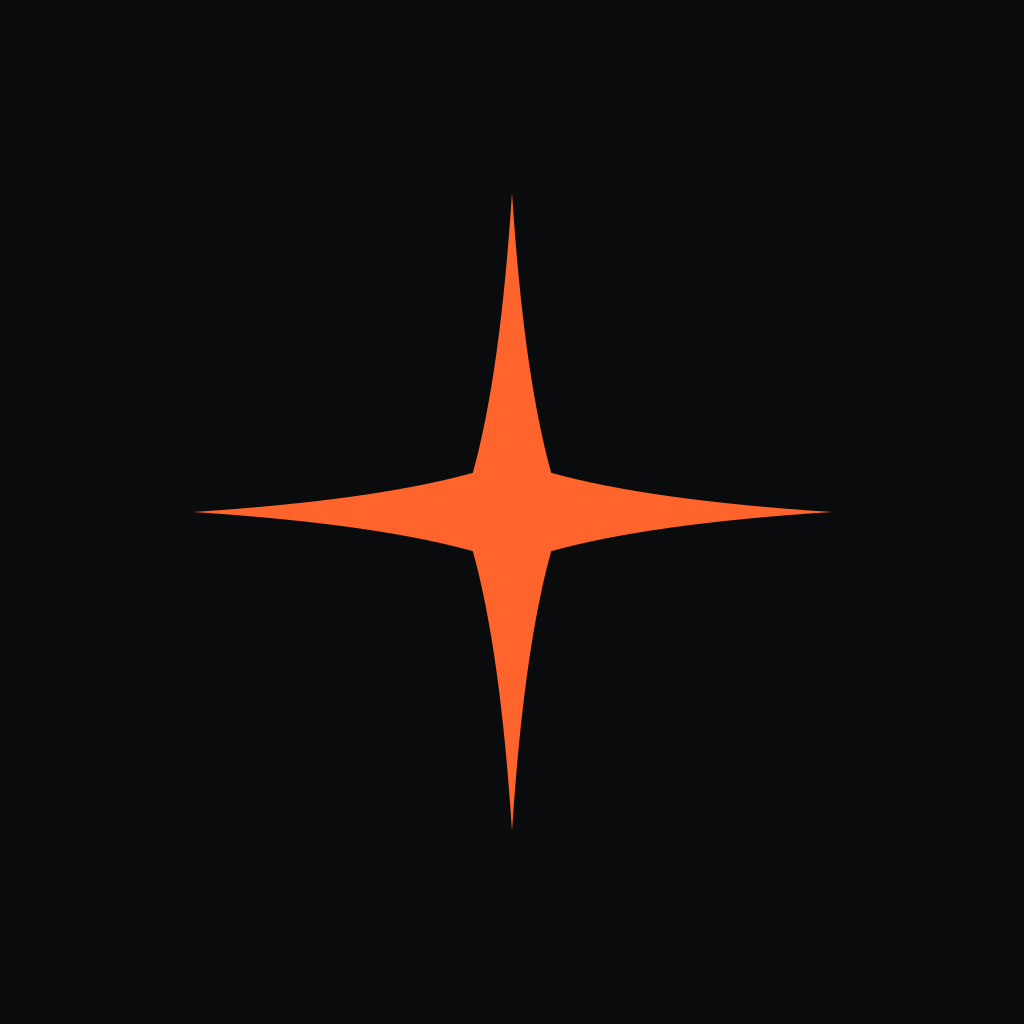
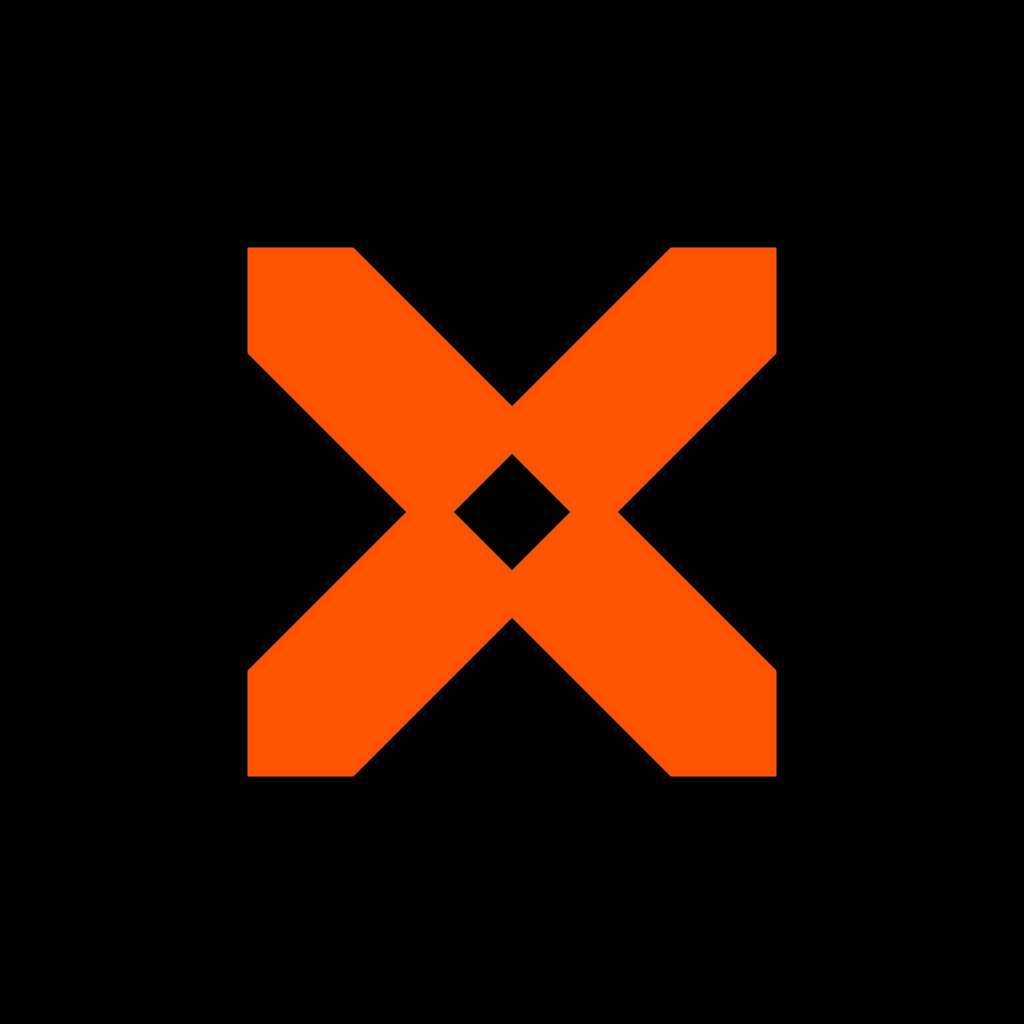
New Crux mark: a bold X with a diamond cut from its centre, also the X of the wordmark
The four-point star read as an AI sparkle (Gemini). The new mark is a solid X with square-cut ends and a diamond cut
out of the centre, the point where every chain's route meets one pool; it holds at 16px. It is the X of the wordmark
("CRU" + mark) in the header, footer and share image, the favicon and public icon, the app icon and splash (regenerated
by scripts/generate-icons.mjs, which still drew an old star), and the hero, now the mark drawn in SVG and lit orange in
its lens (the glass-and-chrome star image is removed). DESIGN.md describes it.

Changed region(s): [[0.2188, 0.2188, 0.7812, 0.7812]]

diff --git a/components/site/CruxEmblem.tsx b/components/site/CruxEmblem.tsx
@@ -1,12 +1,13 @@
 "use client";
 
-import Image from "next/image";
 import { useEffect, useRef } from "react";
+import { CRUX_MARK_PATH } from "./Logo";
 
 /**
- * The hero's CRUX emblem: the glass and liquid-chrome star (public/crux-emblem.webp) in a black lens. It follows the
- * pointer anywhere on the page: the star tilts towards it, a reflection slides across the chrome, and the orange core
- * brightens as the pointer nears it; a tap sends one pulse out from the core. With no pointer it drifts slowly.
+ * The hero's CRUX emblem: the mark (components/site/Logo.tsx), lit Electric Orange, in a black glass lens. It follows
+ * the pointer anywhere on the page: the mark tilts towards it, a reflection slides across it, and the core glows through
+ * the diamond at its centre as the pointer nears it; a tap sends one pulse out from the core. With no pointer it drifts
+ * slowly.
  * prefers-reduced-motion keeps it still. On black the lens is invisible; on the light theme it reads as a glass disc.
  */
 
@@ -82,8 +83,22 @@ export function CruxEmblem({ className = "" }: { className?: string }) {
       <div data-stage className="absolute inset-0 [transform-style:preserve-3d] [transform:rotateX(var(--rx))_rotateY(var(--ry))] will-change-transform">
         {/* The lens: black glass, so the image's black ground disappears on the dark theme */}
         <div className="absolute inset-0 isolate overflow-hidden rounded-full bg-black ring-1 ring-tint/10">
-          <Image src="/crux-emblem.webp" alt="" fill priority sizes="(min-width: 768px) 480px, 300px" className="pointer-events-none object-cover" draggable={false} />
-          {/* A reflection that follows the pointer; overlay leaves the black untouched and lifts only the chrome */}
+          {/* The mark, lit from the upper left, with a soft orange bloom behind it */}
+          <svg viewBox="0 0 24 24" className="pointer-events-none absolute inset-[22%] h-[56%] w-[56%]">
+            <defs>
+              <linearGradient id="crux-emblem-fill" x1="0" y1="0" x2="1" y2="1">
+                <stop offset="0" stopColor="#ff8a4c" />
+                <stop offset="0.55" stopColor="#ff5500" />
+                <stop offset="1" stopColor="#c23d00" />
+              </linearGradient>
+              <filter id="crux-emblem-bloom" x="-30%" y="-30%" width="160%" height="160%">
+                <feGaussianBlur stdDeviation="1.1" />
+              </filter>
+            </defs>
+            <path d={CRUX_MARK_PATH} fillRule="evenodd" fill="#ff5500" opacity="0.45" filter="url(#crux-emblem-bloom)" />
+            <path d={CRUX_MARK_PATH} fillRule="evenodd" fill="url(#crux-emblem-fill)" />
+          </svg>
+          {/* A reflection that follows the pointer; overlay leaves the black untouched and lifts only the mark */}
           <div
             className="absolute inset-0 mix-blend-overlay"
             style={{ background: "radial-gradient(circle at var(--gx) var(--gy), rgb(255 255 255 / 0.85), rgb(255 190 150 / 0.25) 22%, transparent 48%)" }}
@@ -91,7 +106,7 @@ export function CruxEmblem({ className = "" }: { className?: string }) {
         </div>
         {/* The core flare, floating in front of the glass; brighter as the pointer nears it */}
         <div
-          className="pointer-events-none absolute left-1/2 top-[45.7%] aspect-square w-[30%] rounded-full mix-blend-screen"
+          className="pointer-events-none absolute left-1/2 top-1/2 aspect-square w-[22%] rounded-full mix-blend-screen"
           style={{
             background: "radial-gradient(circle, rgb(255 214 186 / 0.9), rgb(255 85 0 / 0.55) 28%, rgb(255 85 0 / 0.12) 55%, transparent 70%)",
             opacity: "calc(0.15 + var(--glow) * 0.85)",

diff --git a/components/site/Logo.tsx b/components/site/Logo.tsx
@@ -1,27 +1,29 @@
 /**
- * The CRUX mark: four equal, tapered arms converging on one point. Equal arms and concave
- * sides keep it a convergence mark (a compass point, a clearing price), never a cross.
- * Drawn as one closed path so the same geometry serves every version: flat Electric Orange
- * for the favicon and app icon, and a single colour (currentColor) at tiny sizes and in the
- * header logo. The hero emblem (components/site/CruxEmblem.tsx) is a rendered glass and chrome image of it.
+ * The CRUX mark: a bold X whose four arms meet around a diamond cut out of its centre, the crux where every chain's
+ * route converges on one pool. Square-cut ends and straight edges keep it a letter and a mark at once: it stands alone
+ * as the icon, and it is the X of the wordmark ("CRU" + mark). One path with the diamond as a second subpath (fill-rule
+ * evenodd), so the same geometry serves every version: flat Electric Orange for the favicon, app icon and OG image, and
+ * a single colour (currentColor) at tiny sizes and in the header. The hero (components/site/CruxEmblem.tsx) sets it in
+ * a glass lens.
  */
-export const CRUX_MARK_PATH =
-  "M12 0.6 Q12.42 7.1 13.4 10.6 Q16.9 11.58 23.4 12 Q16.9 12.42 13.4 13.4 Q12.42 16.9 12 23.4 Q11.58 16.9 10.6 13.4 Q7.1 12.42 0.6 12 Q7.1 11.58 10.6 10.6 Q11.58 7.1 12 0.6 Z";
+export const CRUX_MARK_PATH = "M2 2 H6 L12 8 L18 2 H22 V6 L16 12 L22 18 V22 H18 L12 16 L6 22 H2 V18 L8 12 L2 6 Z M12 9.8 L14.2 12 L12 14.2 L9.8 12 Z";
 
 export function CruxMark({ className = "h-7 w-7" }: { className?: string }) {
   return (
     <svg viewBox="0 0 24 24" className={className} aria-hidden="true">
-      <path d={CRUX_MARK_PATH} fill="currentColor" />
+      <path d={CRUX_MARK_PATH} fill="currentColor" fillRule="evenodd" />
     </svg>
   );
 }
 
-/** Mark plus the warm-white wordmark, widely spaced. */
+/** The wordmark: "CRU" in warm white, widely spaced, with the mark as its X (sized to the capitals). */
 export function Logo({ className = "" }: { className?: string }) {
   return (
-    <span className={`inline-flex items-center gap-2.5 ${className}`}>
-      <CruxMark className="h-[22px] w-[22px] text-signal" />
-      <span className="pl-[0.1em] text-[15px] font-medium tracking-[0.42em] text-chrome">CRUX</span>
+    <span role="img" aria-label="Crux" className={`inline-flex items-center ${className}`}>
+      <span aria-hidden="true" className="pl-[0.1em] text-[15px] font-medium leading-none tracking-[0.42em] text-chrome">
+        CRU
+      </span>
+      <CruxMark className="h-[13px] w-[13px] text-signal" />
     </span>
   );
 }

diff --git a/app/opengraph-image.tsx b/app/opengraph-image.tsx
@@ -21,11 +21,12 @@ export default function OpengraphImage() {
           fontFamily: "sans-serif",
         }}
       >
-        <div style={{ display: "flex", alignItems: "center", gap: 18 }}>
-          <svg width="44" height="44" viewBox="0 0 24 24">
-            <path d={CRUX_MARK_PATH} fill="#ff5500" />
+        {/* The wordmark: "CRU" with the mark as its X */}
+        <div style={{ display: "flex", alignItems: "center" }}>
+          <div style={{ fontSize: 30, letterSpacing: 14, fontWeight: 500 }}>CRU</div>
+          <svg width="27" height="27" viewBox="0 0 24 24">
+            <path d={CRUX_MARK_PATH} fill="#ff5500" fillRule="evenodd" />
           </svg>
-          <div style={{ fontSize: 30, letterSpacing: 14, fontWeight: 500 }}>CRUX</div>
         </div>
         <div style={{ display: "flex", flexDirection: "column", fontSize: 116, fontWeight: 400, lineHeight: 0.95, letterSpacing: -2 }}>
           <div>MARKETS</div>

diff --git a/DESIGN.md b/DESIGN.md
@@ -119,11 +119,11 @@ The terminal, launch and pro views use the same tokens, packed tighter.
 
 ## Brand mark
 
-One geometric four-point mark (`CRUX_MARK_PATH` in components/site/Logo.tsx): four equal tapered arms meeting at a waist, so it reads as a convergence point, not a cross.
-- Flat Electric Orange on black: favicon (app/icon.svg), app icon and splash (public/), OG image.
-- Single colour (`CruxMark`, currentColor): legible at 16px, no glow, works on any ground.
-- Glass and liquid chrome (`CruxEmblem`): the hero version, a rendered image (public/crux-emblem.webp) of the mark as a liquid-chrome glass star with an orange core, set in a black lens (invisible on the dark ground, a glass disc on the light one). It follows the pointer anywhere on the page: up to 14° of 3D tilt, a reflection sliding across the chrome (overlay blend, so the black stays black), and a core flare that brightens as the pointer nears it. A tap sends one orange pulse ring from the core; with no pointer for 3s it drifts slowly. It only animates while on screen.
-- Wordmark: CRUX in Archivo 500, chrome, 0.42em tracking.
+One geometric X mark (`CRUX_MARK_PATH` in components/site/Logo.tsx, adopted 2026-11-02): four bold arms with square-cut ends meeting around a diamond cut out of the centre, the crux where every chain's route converges on one pool. It replaced a four-point star that read as an AI sparkle (Gemini). Straight edges and no seams, so it holds at 16px.
+- Flat Electric Orange on black: favicon (app/icon.svg, public/icon.svg), app icon and splash (public/icon-1024.png, public/splash.png from scripts/generate-icons.mjs), OG image.
+- Single colour (`CruxMark`, currentColor, fill-rule evenodd): legible at 16px, no glow, works on any ground.
+- The hero (`CruxEmblem`): the mark lit in orange (a gentle upper-left gradient and a soft bloom), drawn in SVG inside a black lens (invisible on the dark ground, a glass disc on the light one). It follows the pointer anywhere on the page: up to 14° of 3D tilt, a reflection sliding across it (overlay blend, so the black stays black), and a core flare through the centre diamond that brightens as the pointer nears it. A tap sends one orange pulse ring from the core; with no pointer for 3s it drifts slowly. It only animates while on screen.
+- Wordmark: "CRU" in Archivo 500, chrome, 0.42em tracking, with the mark as its X (sized to the capitals).
 
 ## Components
 
